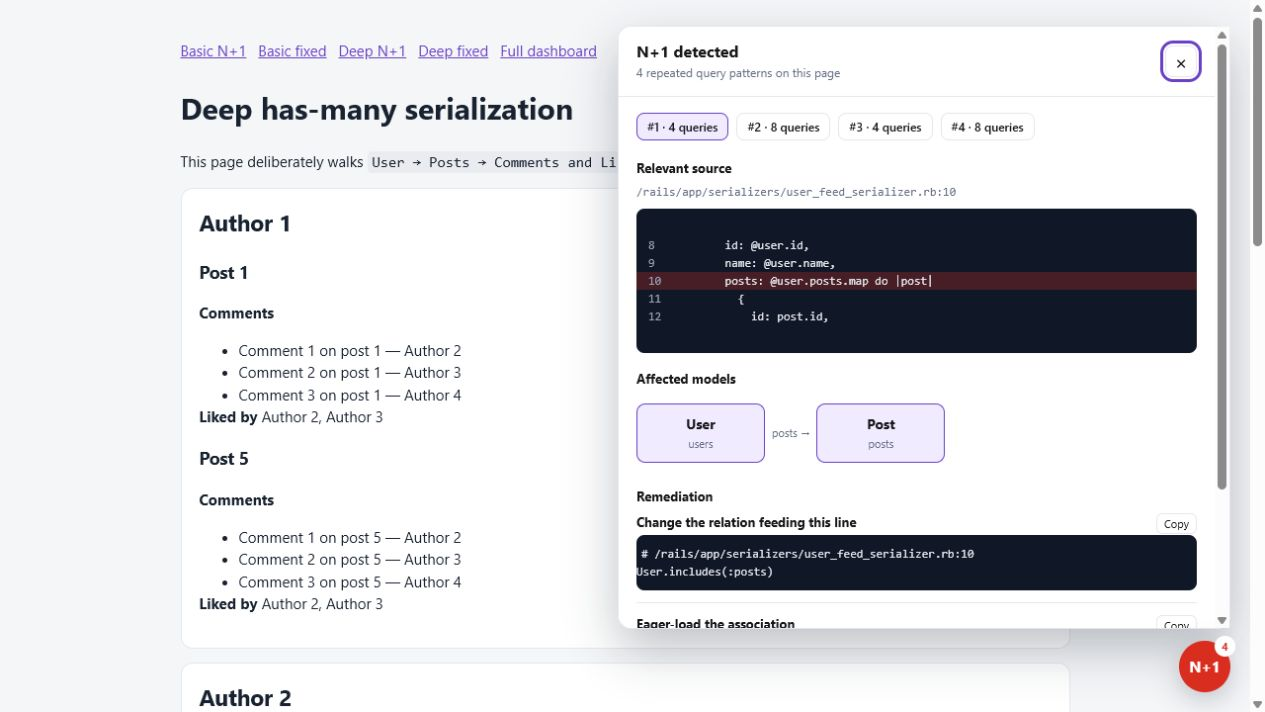
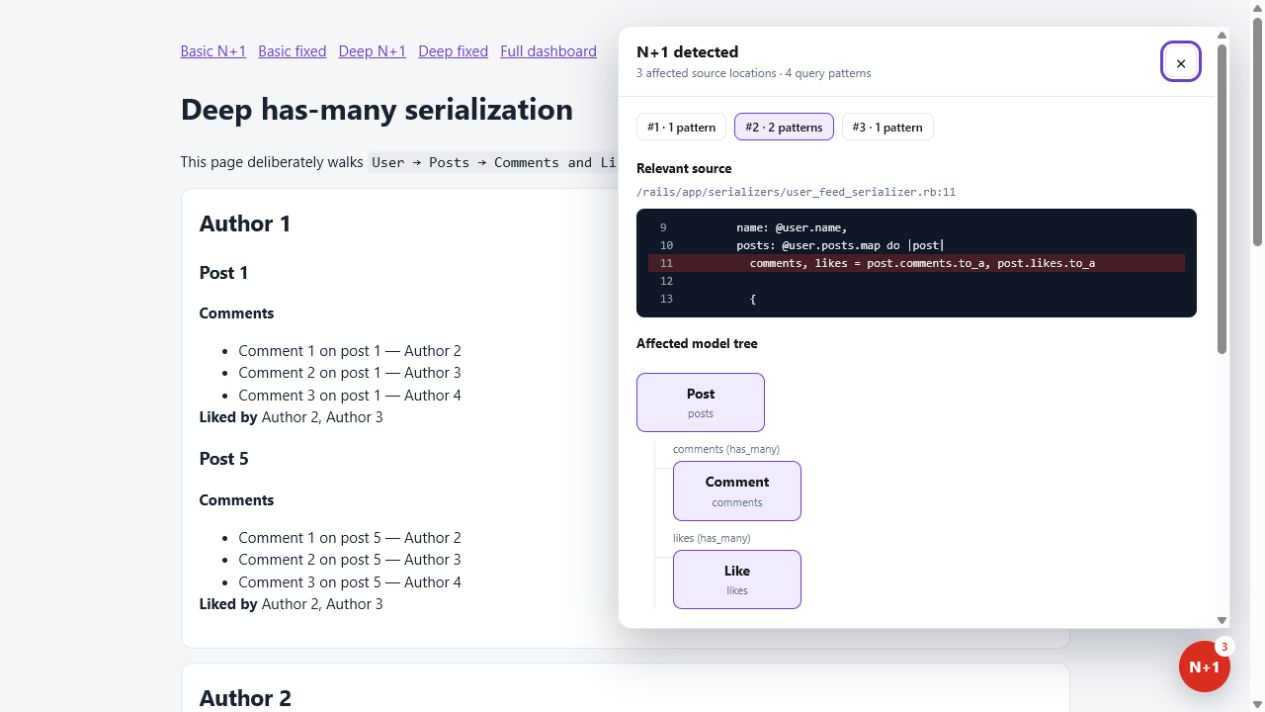
Gemspec update

diff --git a/test/store_test.rb b/test/store_test.rb
@@ -1,0 +1,34 @@
+require_relative "test_helper"
+
+class StoreTest < Minitest::Test
+  Event = Struct.new(:id)
+
+  def setup
+    @original_limit = NPlusInsight.configuration.max_events
+    NPlusInsight::Store.clear
+  end
+
+  def teardown
+    NPlusInsight.configuration.max_events = @original_limit
+    NPlusInsight::Store.clear
+  end
+
+  def test_rolls_off_oldest_findings_at_the_configured_limit
+    NPlusInsight.configuration.max_events = 2
+
+    NPlusInsight::Store.add(Event.new("oldest"))
+    NPlusInsight::Store.add(Event.new("middle"))
+    NPlusInsight::Store.add(Event.new("newest"))
+
+    assert_equal ["newest", "middle"], NPlusInsight::Store.all.map(&:id)
+    assert_nil NPlusInsight::Store.find("oldest")
+  end
+
+  def test_clear_removes_all_stored_findings
+    NPlusInsight::Store.add(Event.new("finding"))
+
+    NPlusInsight::Store.clear
+
+    assert_empty NPlusInsight::Store.all
+  end
+end

diff --git a/config/routes.rb b/config/routes.rb
@@ -2,5 +2,6 @@ NPlusInsight::Engine.routes.draw do
   root "detections#index"
   get "assets/overlay.css", to: "assets#stylesheet"
   get "assets/overlay.js", to: "assets#script"
+  delete "detections", to: "detections#clear", as: :clear_detections
   resources :detections, only: [:show]
 end

diff --git a/app/controllers/n_plus_insight/detections_controller.rb b/app/controllers/n_plus_insight/detections_controller.rb
@@ -8,5 +8,10 @@ module NPlusInsight
       @detection = Store.find(params[:id])
       return head :not_found unless @detection
     end
+
+    def clear
+      Store.clear
+      redirect_to root_path, status: :see_other, notice: "Stored detections cleared."
+    end
   end
 end

diff --git a/README.md b/README.md
@@ -4,6 +4,10 @@
 [![Rails 7–8](https://img.shields.io/badge/Rails-7.0%E2%80%938.x-D30001?logo=rubyonrails&logoColor=white)](https://rubyonrails.org/)
 [![License: MIT](https://img.shields.io/badge/License-MIT-2563EB.svg)](LICENSE.txt)
 
+[Source code](https://github.com/joryleech/NPlusInsight) ·
+[Issue tracker](https://github.com/joryleech/NPlusInsight/issues) ·
+[Changelog](CHANGELOG.md)
+
 NPlusInsight detects N+1 queries in Ruby on Rails applications and turns them
 into actionable, source-level diagnostics.
 
@@ -66,7 +70,7 @@ detected while rendering the current page.
 Open the indicator to inspect relevant source lines, affected models, and
 remediation suggestions without leaving the page.
 
-![NPlusInsight source location, model graph, and remediation popout](docs/images/on-page-popout.png)
+![NPlusInsight grouped query patterns and multi-model tree in the on-page inspector](docs/images/on-page-popout.png)
 
 ### Mounted findings dashboard
 
@@ -153,7 +157,7 @@ explicitly. Its default value is `false`.
 | --- | --- | --- |
 | `enabled` | `NPLUS_INSIGHT_ENABLED`, otherwise `false` | Enables request-level query collection and analysis. |
 | `minimum_repetitions` | `2` | Number of matching query shapes required to create a finding. |
-| `max_events` | `100` | Maximum number of findings retained in the in-memory store. |
+| `max_events` | `100` | Maximum number of findings retained for the dashboard. The oldest findings are removed first. |
 | `mount_path` | `"/n_plus_insight"` | Path used for the mounted dashboard and overlay assets. Configure this before the application finishes booting. |
 | `on_page` | `true` | Injects the status indicator and findings inspector into HTML responses. |
 | `raise_on_detection` | `false` | Raises when a request produces at least one finding. Useful in controlled tests or CI. |
@@ -200,7 +204,10 @@ collect findings for the mounted dashboard.
 
 The dashboard is available at `mount_path`, which defaults to
 `/n_plus_insight`. It lists the most recent findings stored by the current Rails
-process and links to a detailed report for each finding.
+process and links to a detailed report for each finding. Use **Clear** to remove
+all stored findings. The dashboard retains at most `max_events`
+findings, rolling off the oldest finding whenever the configured limit is
+exceeded.
 
 ## How detection works
 
@@ -339,7 +346,8 @@ The built package is written to `pkg/`.
 
 ## Contributing
 
-Bug reports and pull requests are welcome.
+[Bug reports](https://github.com/joryleech/NPlusInsight/issues/new/choose) and
+[pull requests](https://github.com/joryleech/NPlusInsight/pulls) are welcome.
 
 When proposing a change:
 
@@ -352,6 +360,13 @@ When proposing a change:
 Please avoid including production SQL, source code, credentials, or other
 sensitive application data in public issues.
 
+## Releasing
+
+Maintainer release instructions are available in
+[RELEASING.md](RELEASING.md).
+
 ## License
 
-NPlusInsight is available under the [MIT License](LICENSE.txt).
+NPlusInsight is maintained by
+[Jory Leech](https://github.com/joryleech) and available under the
+[MIT License](LICENSE.txt).

diff --git a/CHANGELOG.md b/CHANGELOG.md
@@ -10,4 +10,8 @@
   complete association tree.
 - Provide an optional on-page status indicator and findings panel.
 - Provide a full mounted findings dashboard.
+- Allow operators to clear stored findings from the dashboard.
+- Roll off the oldest dashboard findings according to `max_events`.
+- Publish canonical GitHub, documentation, changelog, and issue-tracker
+  metadata.
 - Support environment-neutral activation and deployment.
